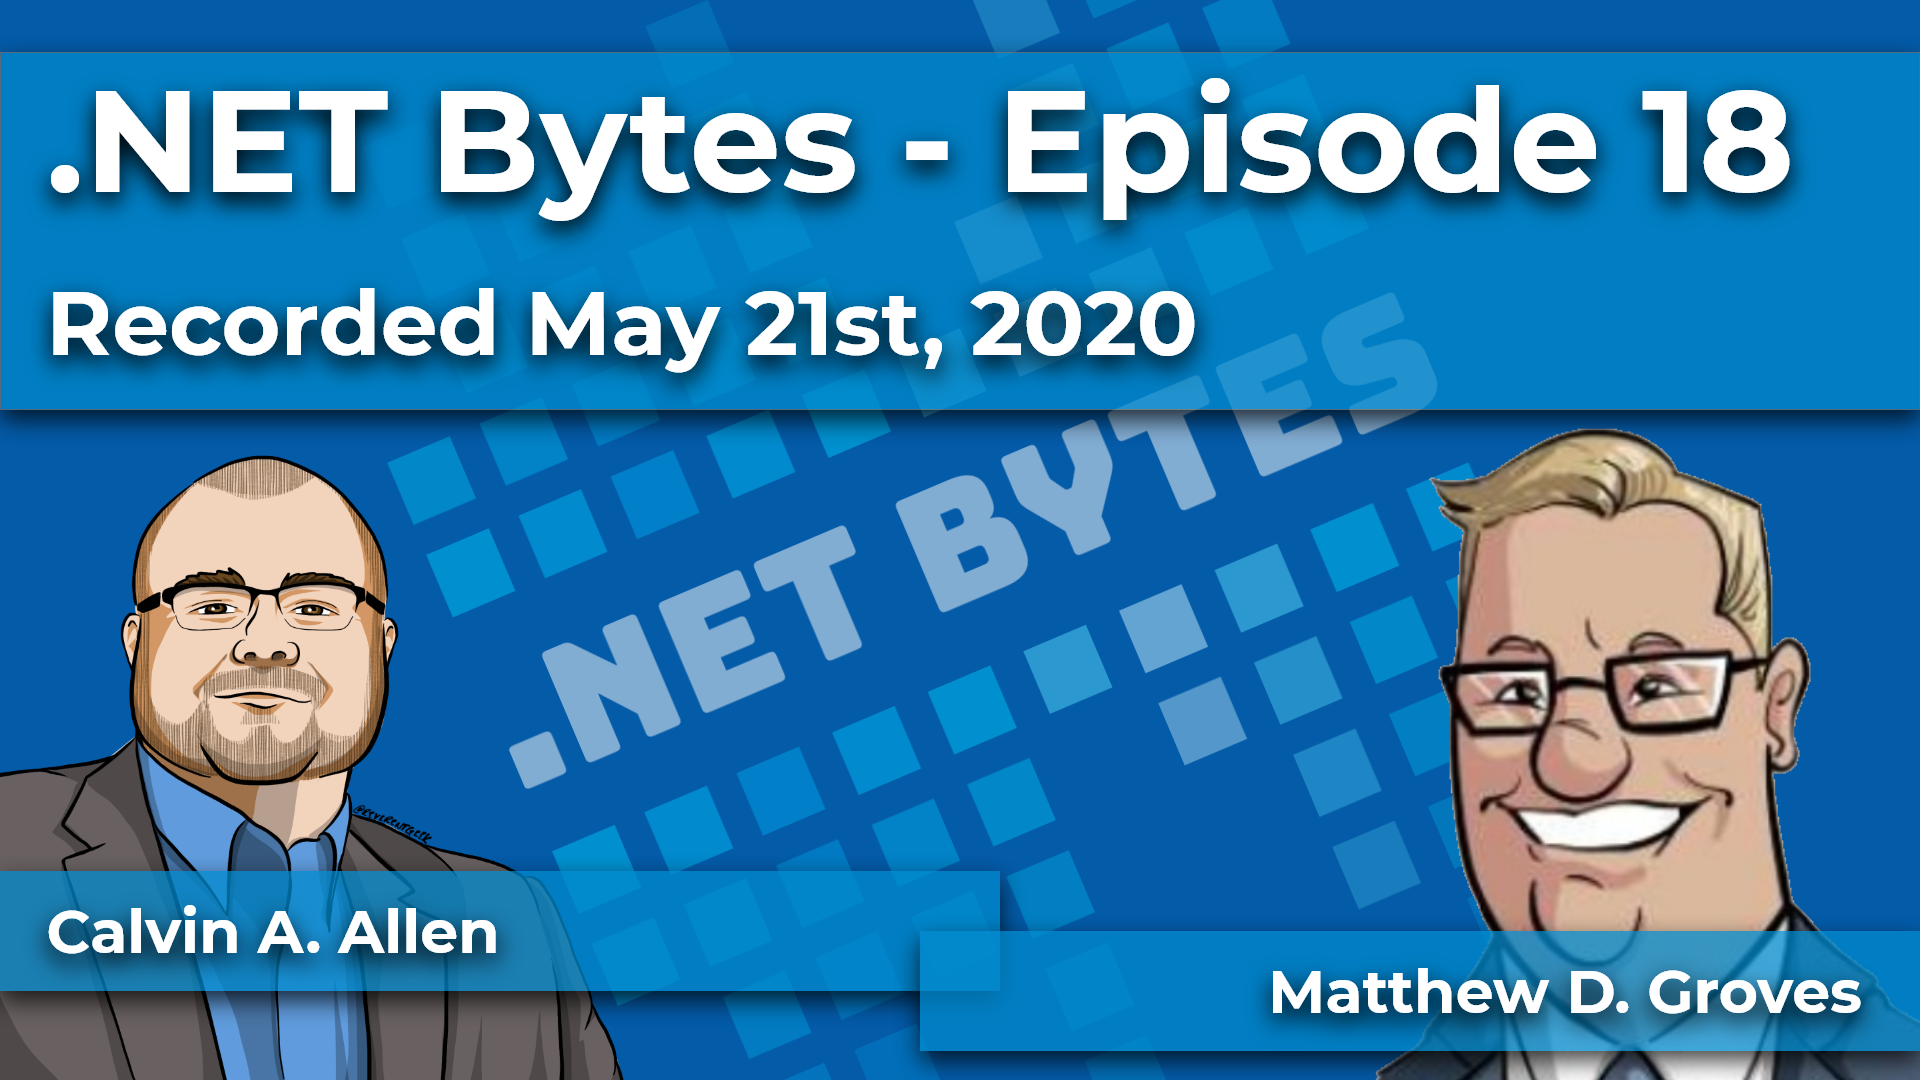
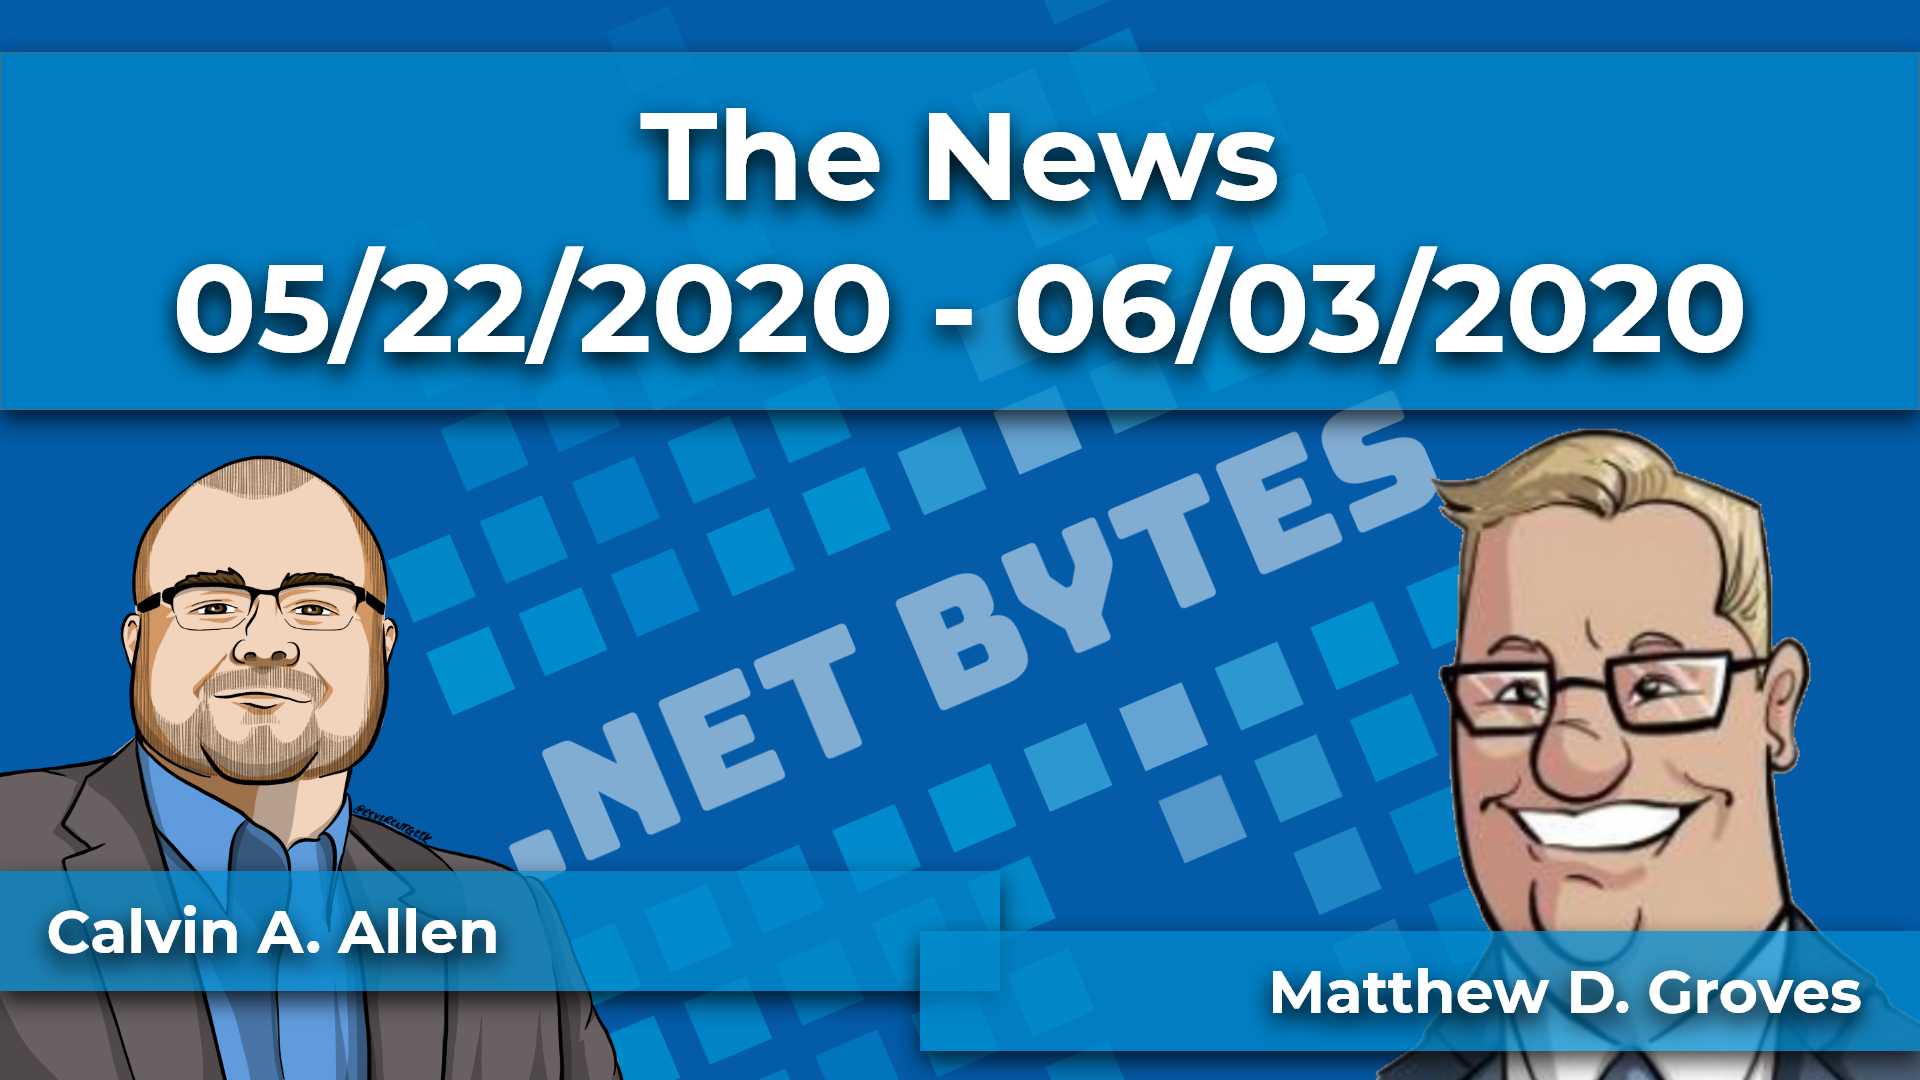
New image, and date fix

Changed region(s): [[0.0, 0.0, 0.9375, 0.8861], [0.3125, 0.9167, 0.4688, 1.0], [0.5312, 0.9778, 0.5625, 1.0]]

diff --git a/_posts/2020-06-08-19/2020-06-08-19.md b/_posts/2020-06-08-19/2020-06-08-19.md
@@ -1,5 +1,5 @@
 ---
-title: "News from May 22nd, 2020 through June 4rd, 2020"
+title: "News from May 22nd, 2020 through June 3rd, 2020"
 slug: "19"
 hosts: ["callen", "mgroves"]
 file_name: "e19.mp3"
